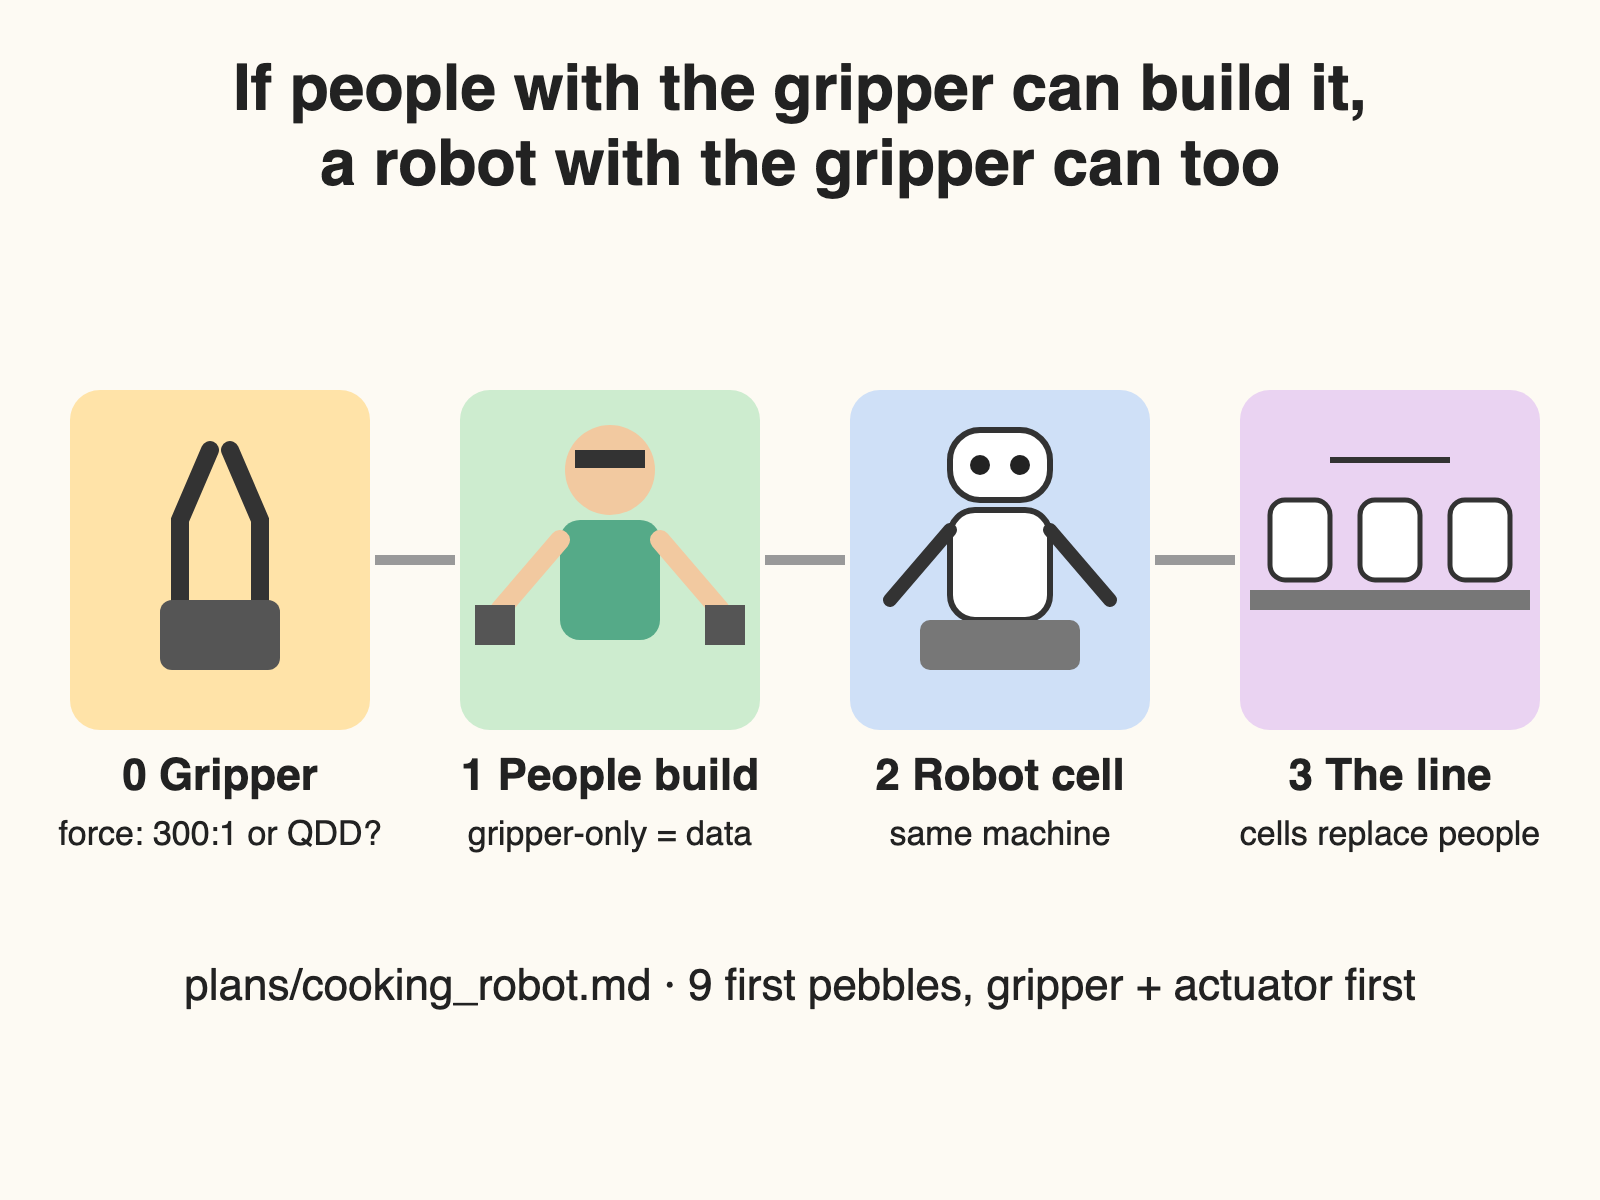
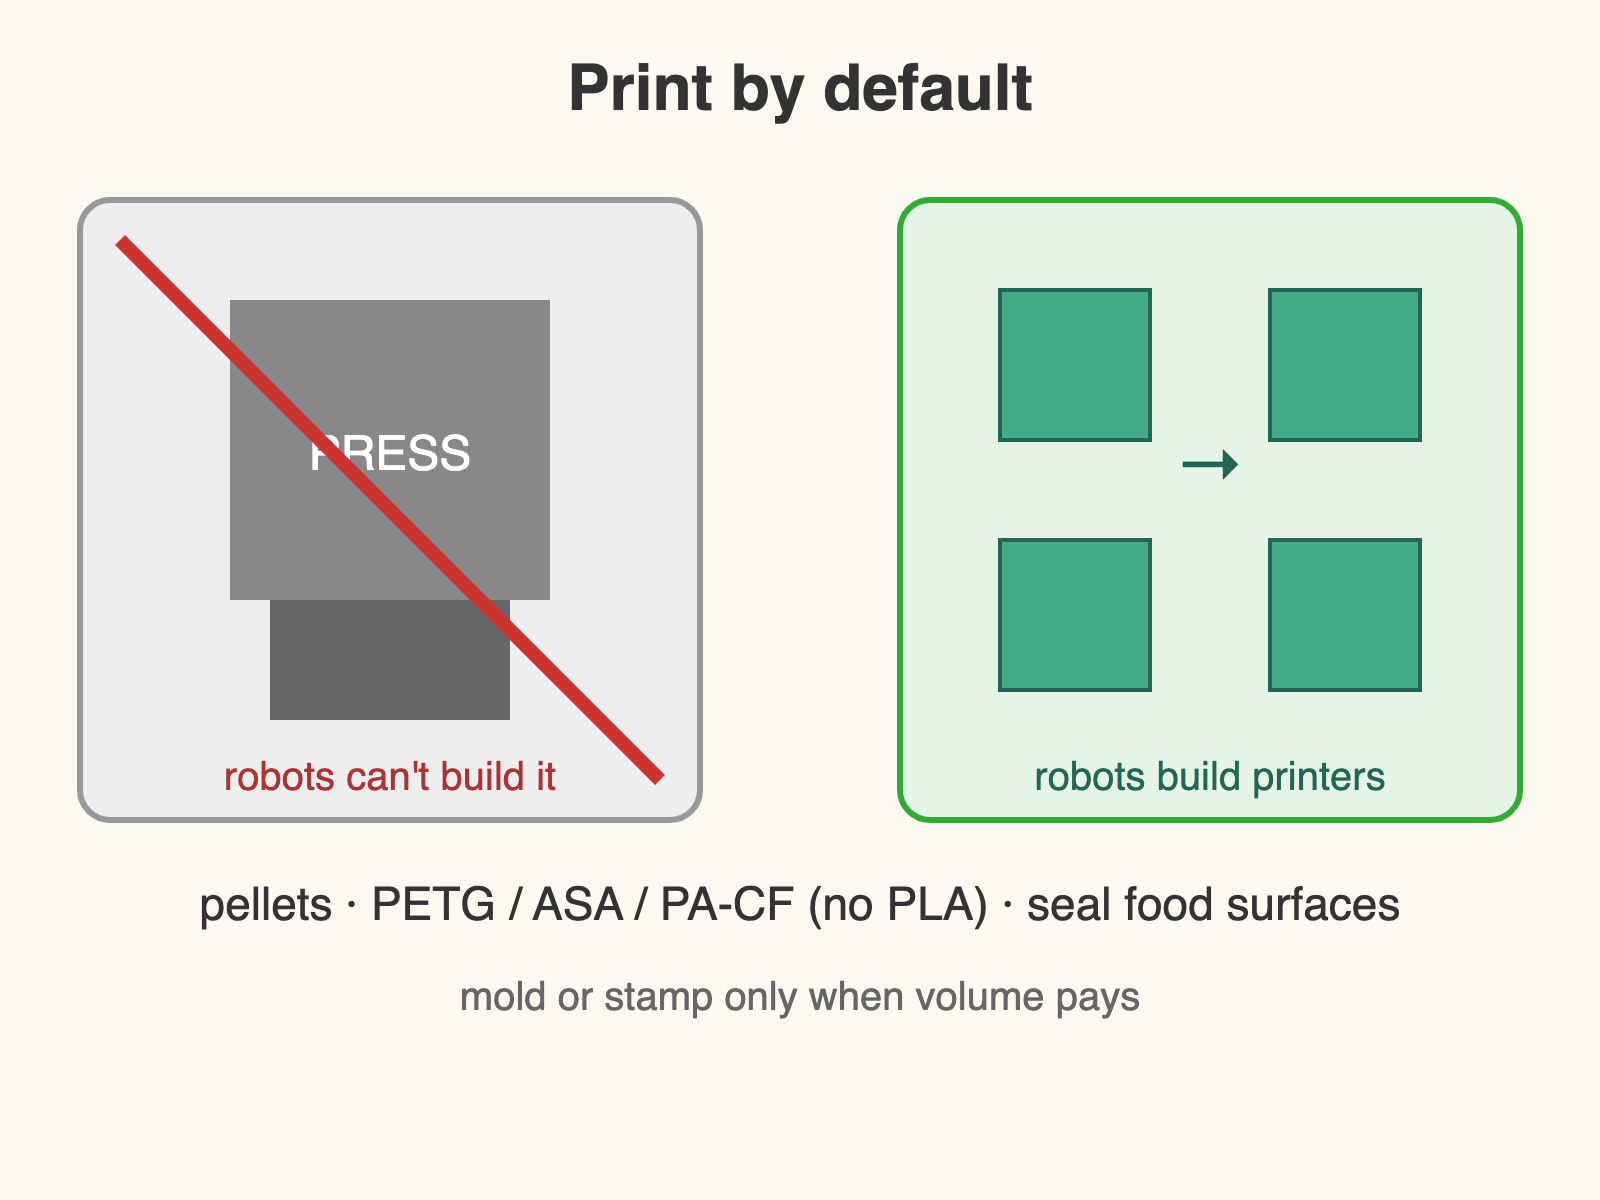
plan: cooking robot materials — print by default (voice-fc9b0f77)

diff --git a/plans/cooking_robot.md b/plans/cooking_robot.md
@@ -1,7 +1,9 @@
 # Cooking robot — a two-armed torso that its own gripper can build
 
 Status: PLAN ONLY (2026-10-22, voice-fc9b0f77). No code, CAD or purchases.
-Written from a voice discussion with Jake. Builds on `plans/gripper_bet.md`
+Written from a voice discussion with Jake. **A living plan:** Jake keeps adding
+to it; each addition is folded into the sections it changes and logged under
+"Additions" at the end. Builds on `plans/gripper_bet.md`
 (humans drive the hardware), `plans/hand_1_0.md` (mirror a human; stereo at
 eye height), `plans/handheld_gripper.md` (UMI method) and
 `plans/shared_stereo_glasses.md`.
@@ -47,6 +49,8 @@ The one design everything depends on. Requirements:
    it is small enough to run at a desk.
 4. **Wipe-clean and food-safe** fingers or finger covers, since the end use is
    a kitchen.
+5. **Printed** (see "Materials"): every structural part of the gripper comes
+   off the printers, so the gripper is also the first test of the print rules.
 
 Exit: a gripper that passes rule 3 on a timed run, and a measured answer to
 the force question.
@@ -76,14 +80,17 @@ Exit: the cell does N stage-1 steps at a set success rate.
 ### Stage 3 — the line
 
 Replace people one station at a time with cells, so a line of identical
-two-armed cells passes work down. Cells also tend the part-making machines
-(load and unload presses, molding machines and die-casters), wind motors,
-inspect and pack. The part-making processes stay as they are; robots take over
-assembly and handling. People move to exceptions, teleop rescue and repair.
+two-armed cells passes work down. Parts come from a **printer farm** (see
+"Materials"): cells clear finished prints, swap build plates, feed pellets,
+wind motors, inspect and pack. The cells also **build more printers**, mostly
+from printed parts, so the farm grows itself (RepRap-style, robot-assembled)
+instead of waiting on presses and molds that only outside suppliers can make.
+Robots take over assembly, handling and printer-building. People move to exceptions, teleop rescue and repair.
 Robots repair robots by swapping modules (a whole arm, a whole actuator).
 
-Ceiling: what robots cannot make in this line: chips, magnets, raw materials
-(resin, steel/aluminium stock, copper). Lock those supply chains early.
+Ceiling: what robots cannot make in this line: chips, magnets, bearings,
+motor wire, fasteners, printer motion parts (steppers, rails, hotends) and
+the polymer pellets themselves. Lock those supply chains early.
 
 ### Stage 4 — the product
 
@@ -150,15 +157,61 @@ we already chose).
 - **Actuators are the cost.** Two designs, reused at every joint, so volume
   on one part drives the cost down. Each actuator is a sealed drop-in module
   with one plug-in connector (power + CAN), which is also the repair unit.
-- **Structure:** stamped steel or die-cast aluminium links, injection-molded
-  outer shell (the cute part), snap-fit from one direction, no loose wires:
-  every module plugs into the one beside it.
+- **Structure:** printed links and a printed outer shell (the cute part,
+  smoothed), snap-fit from one direction, no loose wires: every module plugs
+  into the one beside it. Stamping, die-casting or molding only where a part's
+  volume pays for the tooling (see "Materials").
 - **Head:** the stereo pair at human eye spacing (~63 mm) and a height
   matched to a seated or standing person by the stool/counter choice.
 - **Base:** weighted, so it can't tip over with a full payload at full reach;
   it sets the robot's mass and shipping cost (see open questions).
 - **Price:** appliance-level. A bill-of-materials (BOM) model per stage (1k / 100k / 10M units) is a first
   pebble; without it "appliance price" is a hope.
+
+## Materials: print by default (Jake, 2026-10-22)
+
+**Default to 3D printing, not stamping or molding.** Presses, die-casters and
+injection molders are huge machines the robots cannot build, so they cap how
+fast the factory can grow. A 3D printer is mostly printable parts plus a short
+list of bought ones, and a robot cell can assemble it, so the printer farm can
+copy itself and grow exponentially. Growth rate is set by printer-hours per
+printer, robot-hours per printer assembly, and the bought-parts supply.
+
+Constraints the design has to respect:
+
+- **Pellet extrusion at scale**, not filament. Pellets are the raw form
+  filament is made from, roughly 10× cheaper per kg, and pellet extruders
+  print faster and larger. Filament printers are fine for stages 0–1.
+- **Heat-rated materials near cooking.** PETG (softens ~80 °C), ASA (~100 °C)
+  or PA-CF (nylon with carbon fibre, stiffer, higher still) by zone. **No PLA**
+  anywhere warm: it softens around 55 °C, which a dishwasher, a hot car or a
+  pan handle beats. A heat map of the robot (arm near a hob, base on a
+  counter) picks the material per part.
+- **Food-contact surfaces are sealed, smoothed or covered.** Layer lines trap
+  bacteria and survive washing. Fingers, finger covers and anything that
+  touches food get a food-grade coating, vapour/heat smoothing, or a bought
+  cover (silicone sleeve, stainless pad). Most of the robot never touches
+  food; list the parts that do and keep that list short.
+- **Still bought:** motors (or at least magnets and winding wire), bearings,
+  electronics, cameras, fasteners and the printers' own motion parts.
+- **Switch a part to molding or stamping only when its volume clearly pays
+  for the tooling**, or print the mold (printed molds for short silicone or
+  resin runs, printed press tooling for soft metals). The per-part rule:
+  print cost × volume vs tooling + molded cost × volume, and whether the
+  tooling is a machine the robots can build.
+
+Design consequences:
+
+- **Print rules join the gripper-only rule.** Every part prints without
+  support in a set orientation, fits the farm's build volume, and lands where
+  a gripper can lift it off the plate. Snap-fits are sized for the printed
+  material's creep and layer direction (snaps across layers break).
+- **Printed is weaker and less stiff** than stamped steel. Links get thicker
+  sections or a bought tube/rod as a spine (carbon or aluminium tube is cheap
+  and gripper-friendly to insert). The actuators carry the precision; printed
+  parts mostly locate and enclose.
+- **Print time is a cost.** Printer-hours per robot is a line in the BOM model
+  next to grams of pellet, and sets how many printers each line needs.
 
 ## Ideas to evaluate (not decided)
 
@@ -188,6 +241,10 @@ we already chose).
    time become the real limit?
 8. Is cooking the right first market, or does the factory (robots building
    robots) come first and cooking follow?
+9. Printer-farm doubling time: how many printer-hours and cell-hours does one
+   printer take, and what bought part (steppers, hotends, boards) runs out first?
+10. Which parts genuinely touch food, and is a bought cover or a coating the
+    cheaper way to make each one safe?
 
 ## First pebbles to file (gripper and actuator first)
 
@@ -211,7 +268,23 @@ Not filed yet; listed for Jake's sign-off. Each would go to `agent/`.
 6. **Torso sizing.** Reach, payload, base mass and tip-over for counter and
    stool heights; output is a block layout, not CAD.
 7. **BOM cost model** at 1k / 100k / 10M for two actuator designs plus shell,
-   head, compute and base.
+   head, compute and base, with printer-hours and grams of pellet per part
+   and the print-vs-tooling switch point for each.
 8. **Cooking task list and kitchen safety requirements**, including the
    cooking-service option.
 9. **Cable-driven vs joint-motor arm** research note.
+10. **Print rules and material map.** A short doc: orientation, support-free,
+    snap sizing per material, and which material (PETG / ASA / PA-CF) each
+    zone of the robot gets from a heat map; apply it first to the gripper.
+11. **Self-replicating printer pick.** Choose an open printer design whose
+    printed share is high and whose bought parts are few, ideally pellet-fed;
+    list the bought parts and do a gripper-only assembly audit of it (same
+    method as pebble 3).
+
+## Additions
+
+- 2026-10-22, first plan.
+- 2026-10-22, materials: default to 3D printing so the printer farm can
+  self-replicate; pellets at scale, heat-rated materials, sealed food-contact
+  surfaces, mold/stamp only where volume pays. Changed stages 0 and 3, the
+  ceiling, structure, open questions 9–10, pebbles 7, 10 and 11.
